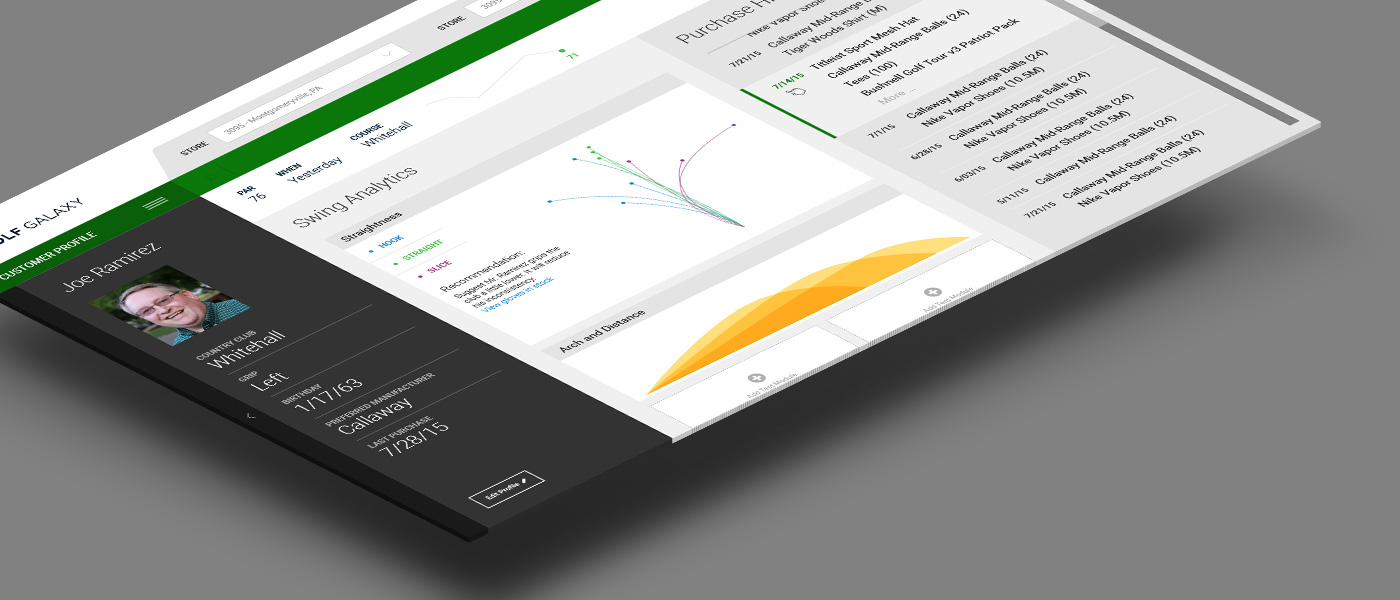
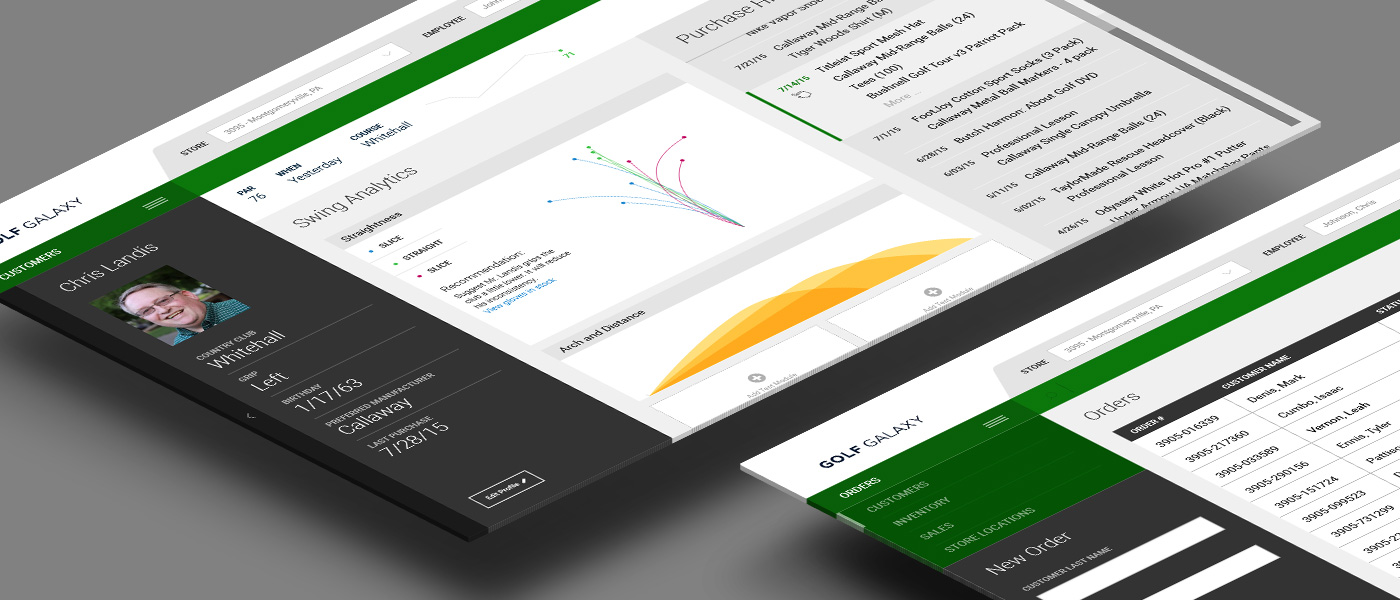
Added new images to golf galaxy project

diff --git a/golfgalaxyredesign.htm b/golfgalaxyredesign.htm
@@ -142,9 +142,11 @@
 			<h2>Final high fidelity design</h2>
 			<p>I couldn't bare the thought that employees would have to use such an awful interface. The spacing was off, there were things everything. Absolutely no order. I snapped a photo and set out to make it better.</p>
 		</div>
-		<img src="i/golf_galaxy_orders.jpg" alt="golf galaxy orders">
-		<img src="i/golf_galaxy_profile.jpg" alt="golf galaxy profile">
-		<img src="i/golf_galaxy_profile_edit.jpg" alt="golf galaxy profile edit">
+		<img src="i/gg_searching_customer.jpg" alt="golf galaxy orders">
+		<img src="i/gg_profile.jpg" alt="golf galaxy profile edit">
+		<img src="i/gg_profile_overlay.jpg" alt="golf galaxy profile edit">
+		<img src="i/gg_menu.jpg" alt="golf galaxy profile">
+		<img src="i/gg_neworder.jpg" alt="golf galaxy profile edit">
 	</div>
 </section>
 
